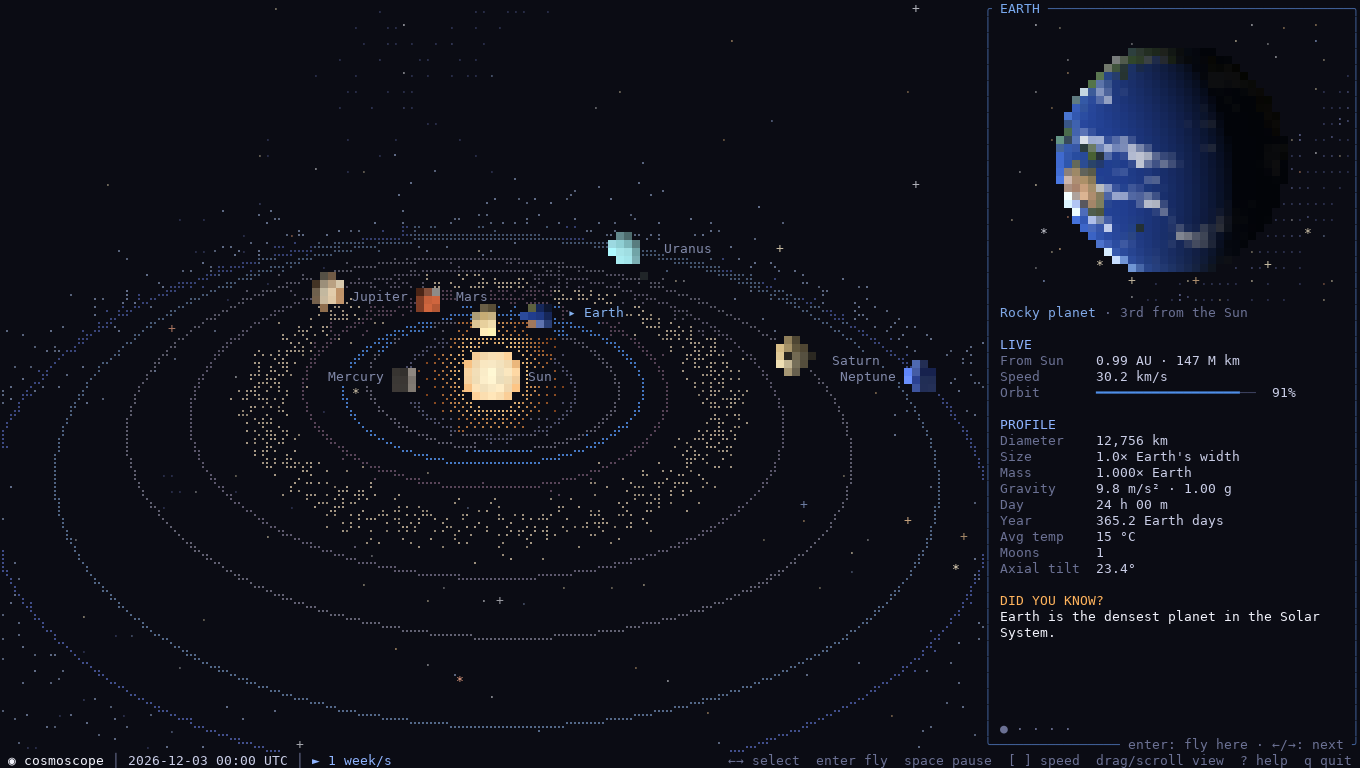
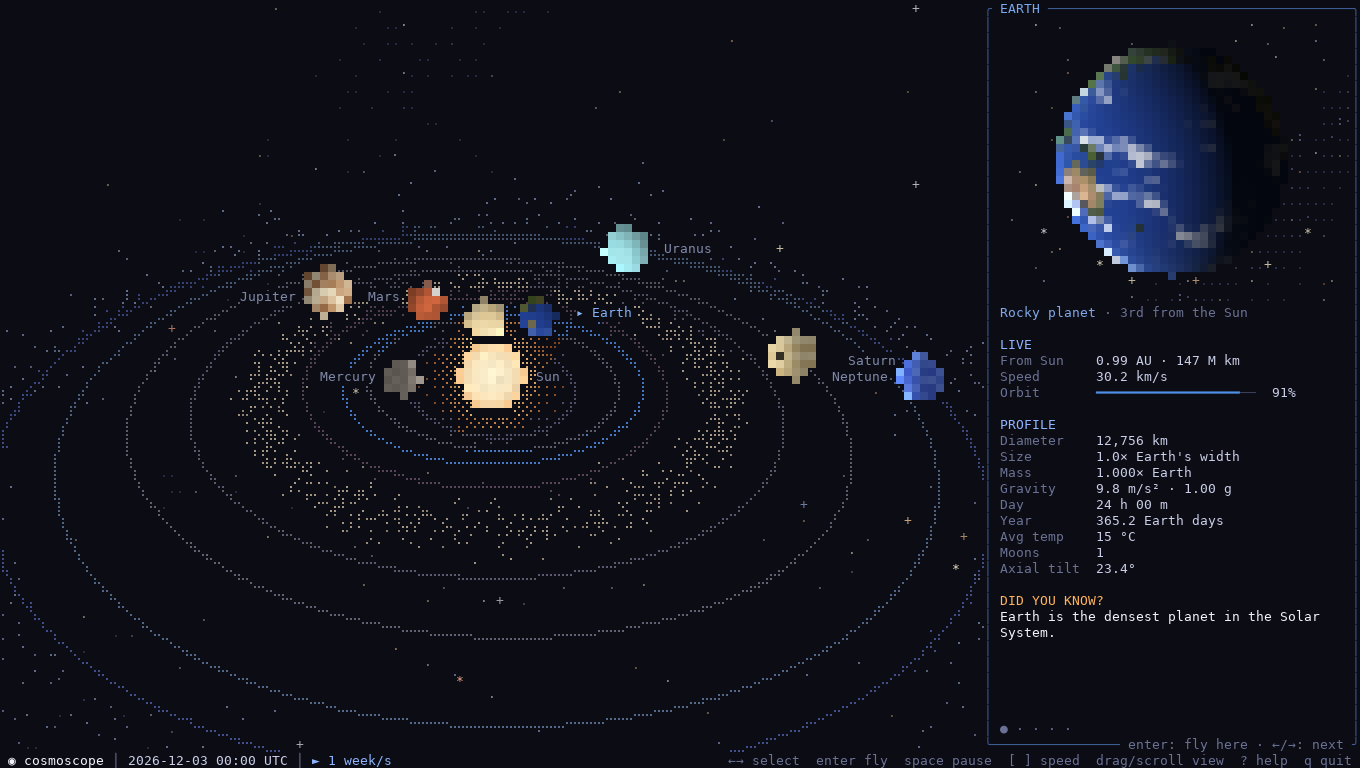
Make planets clearer: rounder, larger discs and no black night sides
Small discs are anti-aliased with a 4x4 coverage test, drawn about 40%
larger and lit almost fully so their colour reads. Big discs keep the
real phase but their night side keeps a trace of colour instead of
going black, which looked like holes on coloured terminal backgrounds.
Tiny or dark ring pixels are skipped for the same reason.

Claude-Session: https://claude.ai/code/session_01MM2WfCMnJogUL4ppTHTso2

diff --git a/src/render.rs b/src/render.rs
@@ -792,11 +792,14 @@ fn draw_body(cv: &mut Canvas, view: &View, fr: &Frame, i: usize, pos: V3) -> Opt
     let proj_r = radius / depth * view.f;
     // keep tiny planets visible as at least a small disc, scaled to the screen size
     let screen = (view.cy / 55.0).clamp(0.6, 1.3);
-    let sr = proj_r.max(screen * if i == 0 { 4.0 } else { 1.3 + 11.0 * radius });
-    // tiny discs get extra ambient light so their colour still reads
-    let ambient = 0.06 + 0.3 * (1.0 - smoothstep(3.0, 8.0, sr));
+    let sr = proj_r.max(screen * if i == 0 { 5.0 } else { 1.8 + 15.0 * radius });
+    // Small discs are lit almost fully so their colour reads at a glance. Big ones show the
+    // real phase, but their night side keeps a trace of colour instead of going black, which
+    // would look like a hole on terminals with a coloured background.
+    let ambient = 0.10 + 0.5 * (1.0 - smoothstep(3.5, 10.0, sr));
     let id = body.id.as_str();
-    let has_ring = has_rings(id);
+    // rings only once they are big enough to read; tiny ones are just dark specks
+    let has_ring = has_rings(id) && sr >= if id == "uranus" { 10.0 } else { 2.5 };
     let reach = if has_ring { sr * 2.3 } else { sr } + 1.0;
     let axis = body.pole();
     let (bx, by, bz) = body_axes(axis);
@@ -816,10 +819,26 @@ fn draw_body(cv: &mut Canvas, view: &View, fr: &Frame, i: usize, pos: V3) -> Opt
     let (y0, y1) = ((pcy - reach).floor() as i64, (pcy + reach).ceil() as i64);
     for py in y0..=y1 {
         for px in x0..=x1 {
-            let u = (px as f64 + 0.5 - pcx) / sr;
-            let v = -(py as f64 + 0.5 - pcy) / sr;
-            let d2 = u * u + v * v;
-            let on_planet = d2 <= 1.0;
+            let mut u = (px as f64 + 0.5 - pcx) / sr;
+            let mut v = -(py as f64 + 0.5 - pcy) / sr;
+            // 4x4 coverage test so small discs come out round instead of as a cross
+            let mut inside = 0;
+            for sy in 0..4 {
+                for sx in 0..4 {
+                    let su = (px as f64 + (sx as f64 + 0.5) / 4.0 - pcx) / sr;
+                    let sv = -(py as f64 + (sy as f64 + 0.5) / 4.0 - pcy) / sr;
+                    inside += (su * su + sv * sv <= 1.0) as u32;
+                }
+            }
+            let on_planet = inside >= 8;
+            let mut d2 = u * u + v * v;
+            if on_planet && d2 > 0.97 {
+                // an edge pixel whose centre falls just outside: shade it at the rim
+                let k = (0.97 / d2).sqrt();
+                u *= k;
+                v *= k;
+                d2 = 0.97;
+            }
             let wp = if on_planet { (1.0 - d2).sqrt() } else { -1e9 };
             let mut col: Option<Rgb> = None;
             if on_planet {
@@ -877,7 +896,11 @@ fn draw_body(cv: &mut Canvas, view: &View, fr: &Frame, i: usize, pos: V3) -> Opt
                         let ring_col = rc.scale(alb * light * shadow);
                         col = match col {
                             Some(c) => Some(c.mix(ring_col, alpha)),
-                            None if alpha > 0.12 => Some(ring_col.scale(alpha.sqrt())),
+                            // over empty space, skip faint or very dark ring pixels: they read
+                            // as dirt on terminals that are not pure black
+                            None if alpha > 0.12 && ring_col.scale(alpha.sqrt()).luma() > 0.07 => {
+                                Some(ring_col.scale(alpha.sqrt()))
+                            }
                             None => None,
                         };
                     }

diff --git a/tools/ansi2png.py b/tools/ansi2png.py
@@ -58,11 +58,11 @@ def sgr(params, fg, bg):
     return fg, bg
 
 
-def main(src, dst):
+def main(src, dst, bg=BG):
     lines = open(src, encoding="utf-8").read().split("\n")
     lines = [l for l in lines if l]
     cols = max(len(TOKEN.sub(lambda m: m.group(2) or "", l)) for l in lines)
-    img = Image.new("RGB", (cols * CW, len(lines) * CH), BG)
+    img = Image.new("RGB", (cols * CW, len(lines) * CH), bg)
     d = ImageDraw.Draw(img)
     f = font()
     for y, line in enumerate(lines):
@@ -94,4 +94,6 @@ def main(src, dst):
 
 
 if __name__ == "__main__":
-    main(sys.argv[1], sys.argv[2])
+    # optional third argument: terminal background as rrggbb, e.g. 300a24 for Ubuntu's default
+    bg = tuple(int(sys.argv[3][i:i + 2], 16) for i in (0, 2, 4)) if len(sys.argv) > 3 else BG
+    main(sys.argv[1], sys.argv[2], bg)

diff --git a/src/math.rs b/src/math.rs
@@ -126,6 +126,9 @@ impl Rgb {
     pub fn add(self, o: Rgb) -> Rgb {
         Rgb::new(self.r + o.r, self.g + o.g, self.b + o.b)
     }
+    pub fn luma(self) -> f64 {
+        0.2126 * self.r + 0.7152 * self.g + 0.0722 * self.b
+    }
     pub fn to_u8(self) -> (u8, u8, u8) {
         let q = |v: f64| (v.clamp(0.0, 1.0) * 255.0 + 0.5) as u8;
         (q(self.r), q(self.g), q(self.b))
